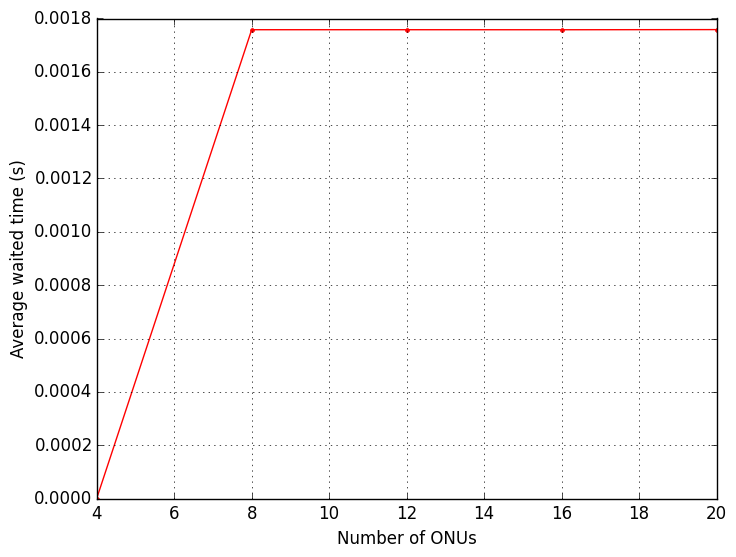
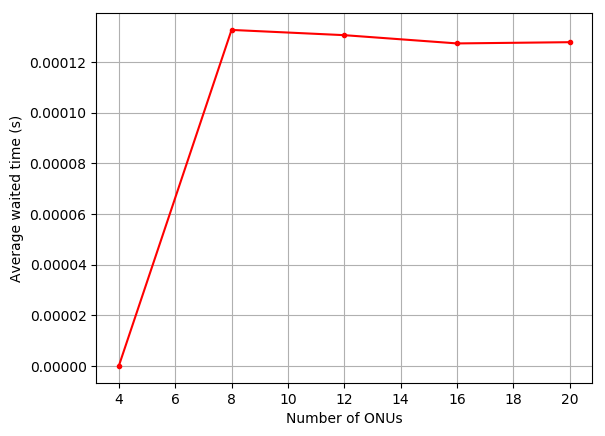
bug fix to transfer rate

diff --git a/experiments/run_plot.py b/experiments/run_plot.py
@@ -51,7 +51,7 @@ if experiment == 1:
     elif support == "twdm":
         sim.DBA_IPACT_default_bandwidth = 800
         max_frequencies = 6
-    ONU_bitRate_up = sim.DBA_IPACT_default_bandwidth * 8
+    sim.ONU_bitRate_up = sim.DBA_IPACT_default_bandwidth * 8
     sim.ONU_consumption = lambda x: 15
     sim.PN_consumption = lambda x: 25
     sim.Ant_consumption = lambda x: 7
@@ -70,7 +70,7 @@ elif experiment == 3:
     elif support == "twdm":
         sim.DBA_IPACT_default_bandwidth = 10000
         max_frequencies = 3
-    ONU_bitRate_up = sim.DBA_IPACT_default_bandwidth * 10
+    sim.ONU_bitRate_up = sim.DBA_IPACT_default_bandwidth * 10
     sim.ONU_consumption = lambda x: 15
     sim.PN_consumption = lambda x: 25
     sim.Ant_consumption = lambda x: 7
@@ -90,7 +90,7 @@ elif experiment == 5:
     elif support == "twdm":
         sim.DBA_IPACT_default_bandwidth = 10000
         max_frequencies = 5
-    ONU_bitRate_up = sim.DBA_IPACT_default_bandwidth * 10
+    sim.ONU_bitRate_up = sim.DBA_IPACT_default_bandwidth * 10
     sim.ONU_consumption = lambda x: 15
     sim.PN_consumption = lambda x: 25
     sim.Ant_consumption = lambda x: 7
@@ -110,7 +110,7 @@ elif experiment == 10:
     elif support == "twdm":
         sim.DBA_IPACT_default_bandwidth = 10000
         max_frequencies = 10
-    ONU_bitRate_up = sim.DBA_IPACT_default_bandwidth * 10
+    sim.ONU_bitRate_up = sim.DBA_IPACT_default_bandwidth * 10
     sim.ONU_consumption = lambda x: 15
     sim.PN_consumption = lambda x: 25
     sim.Ant_consumption = lambda x: 7
@@ -191,9 +191,9 @@ def run_for_seed(s):
 
             matrix = []
             for z in range(f):
-                matrix.append([z, f+z, 100000])
-                matrix.append([f+z, 2*f+1, 100000])
-            matrix.append([2*f+1, 2*f, 100000])
+                matrix.append([z, f+z, random.randrange(500,1000)])
+                matrix.append([f+z, 2*f+1, random.randrange(500,1000)])
+            matrix.append([2*f+1, 2*f, random.randrange(500,1000)])
         else:
             print("Invalid topology: {}".format(topology))
 
@@ -266,7 +266,7 @@ def run_for_seed(s):
         total = total / lines
         mean_waited_array.append(total)
 
-        mean_erlang, std_erlang = compute_mean_erlang(packets, total_time=run_time, total_channels=max_frequencies, channel_size=sim.DBA_IPACT_default_bandwidth)
+        mean_erlang, std_erlang = compute_mean_erlang(packets, total_time=run_time, total_channels=max_frequencies, channel_size=sim.DBA_IPACT_default_bandwidth, delta=0.0001)
         mean_erlangs.append(mean_erlang)
         std_erlangs.append(std_erlang)
 

diff --git a/elastic.py b/elastic.py
@@ -937,7 +937,8 @@ class DBA_IPACT(Active_Node, Virtual_Machine):
                     return None
                 # aligned acks
                 time_to = self.node.time_to_onu(0, r.id_sender)
-                time_from = self.node.time_from_onu(r.bandwidth, r.id_sender)
+                time_from = self.node.time_from_onu(0, r.id_sender)
+                time_from += r.bandwidth / (self.bandwidth)
 
                 available_band = self.bandwidth_available()
                 if(available_band > 0):
